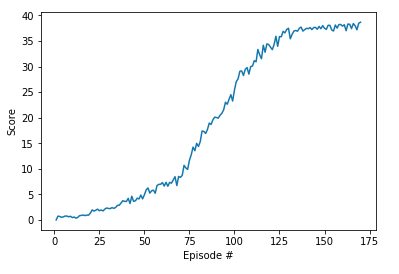
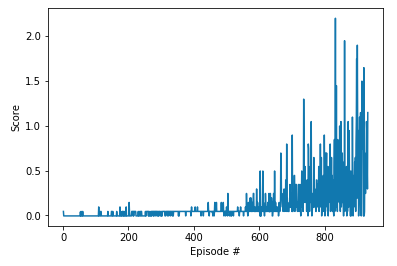
report:video-gif

Changed region(s): [[0.0, 0.0301, 0.9673, 0.9624], [0.5139, 0.2406, 0.6348, 0.4812]]

diff --git a/Report.md b/Report.md
@@ -97,11 +97,11 @@ The code is written in PyTorch 0.4 and Python 3.6.2.
 Main Files:  
 *TODO*
 
-+ ./apps/Reacher.app : Contains the unity app. This app will simulate the Unity environment.
-+ ddpq_agent.py: This code defines the ddpg agent.
-+ model.py: This code defines de model of Neural Network architecture.
-+ Continuous_Control_Rober.ipynb: This notebook will train the agent.
-+ ./cp folder: Contains the checkpoints of models of the successful agent.
++ ./apps/* : Rhis folder contains the unity apps (headless ubuntu & mac). These apps will simulate the Unity environment.
++ ddpq_agent.py: This file defines the DDPG agent.
++ model.py: This file defines the NN architecture [Actor and Critic].
++ Tennis_Rober.ipynb: This notebook will train the agent.
++ ./cp folder: This folder contains the checkpoints of trained agents: actor & critic.
 
 ## Learning Algorithm
 *TODO*
@@ -164,11 +164,9 @@ Critic Model:
 
 ### Plot of Rewards
 
-Environment solved in 170 episodes!	Average Score: 30.06
+Environment solved in 932 episodes!	Average Score: 0.50
 A plot of rewards per episode is included to illustrate that:
 
-+ [ ] the agent receives an average reward (over 100 episodes) of at least +30
-+ [x] the agent is able to receive an average reward (over 100 episodes, and over all 20 agents) of at least +30.
 
 ![report-ddpg-agent.png - gif](./img/report-ddpg-agent.png "report-ddpg-agent.png")
 
@@ -179,12 +177,11 @@ Video of trained DDPG Agent:
 ![Video of Training](./videos/ddpg-agent-11.14.2018.gif "Video of Training")
 
 
-[youtube video](https://youtu.be/h6WyDX4cvek)
-<!--- 
-[![Trained DQN-Agent](http://img.youtube.com/vi/lBDV3A1hInQ/0.jpg)](http://www.youtube.com/watch?v=lBDV3A1hInQ "Trained DQN-Agent")
---->
+[youtube video](https://youtu.be/BdRdK2KzHQM)
+
 
 ### Ideas for Future Work
+**TODO**
 
 Future ideas for improving the agent's performance.
 
@@ -212,3 +209,22 @@ Future ideas for improving the agent's performance.
 10. [RL Coach - DDPG - Docs](https://nervanasystems.github.io/coach/algorithms/policy_optimization/ddpg/)
 11. [RL Coach - DDPG - Code](https://github.com/NervanaSystems/coach/blob/master/rl_coach/agents/ddpg_agent.py)
 12. [Modularized Implementation of Deep RL Algorithms in PyTorch](https://github.com/ShangtongZhang/DeepRL)
+
+'''
+#######################################################################################
+References
+1. [Udacity Gihub Repo](https://github.com/udacity/deep-reinforcement-learning/tree/master/ddpg-pendulum)
+2. [Unity Docs](https://github.com/Unity-Technologies/ml-agents/blob/master/docs/ML-Agents-Overview.md)
+3. [Unity Paper](https://arxiv.org/abs/1809.02627)
+4. [OpenAI master RL](https://spinningup.openai.com/en/latest/algorithms/ddpg.html)
+5. [DDPG paper](https://arxiv.org/abs/1509.02971)
+6. [OpenAI Baselines](https://blog.openai.com/better-exploration-with-parameter-noise/)
+7. [Book: Deep Reinforcement Learning Hands-On](https://github.com/PacktPublishing/Deep-Reinforcement-Learning-Hands-On)
+8. [PyTorch Agent Net: reinforcement learning toolkit for pytorch](https://github.com/Shmuma/ptan)
+9. [Reinforcement Learning Coach by Intel® AI Lab](https://nervanasystems.github.io/coach/)
+10. [RL Coach - DDPG - Docs](https://nervanasystems.github.io/coach/algorithms/policy_optimization/ddpg/)
+11. [RL Coach - DDPG - Code](https://github.com/NervanaSystems/coach/blob/master/rl_coach/agents/ddpg_agent.py)
+12. [Modularized Implementation of Deep RL Algorithms in PyTorch](https://github.com/ShangtongZhang/DeepRL)
+
+#######################################################################################
+'''
